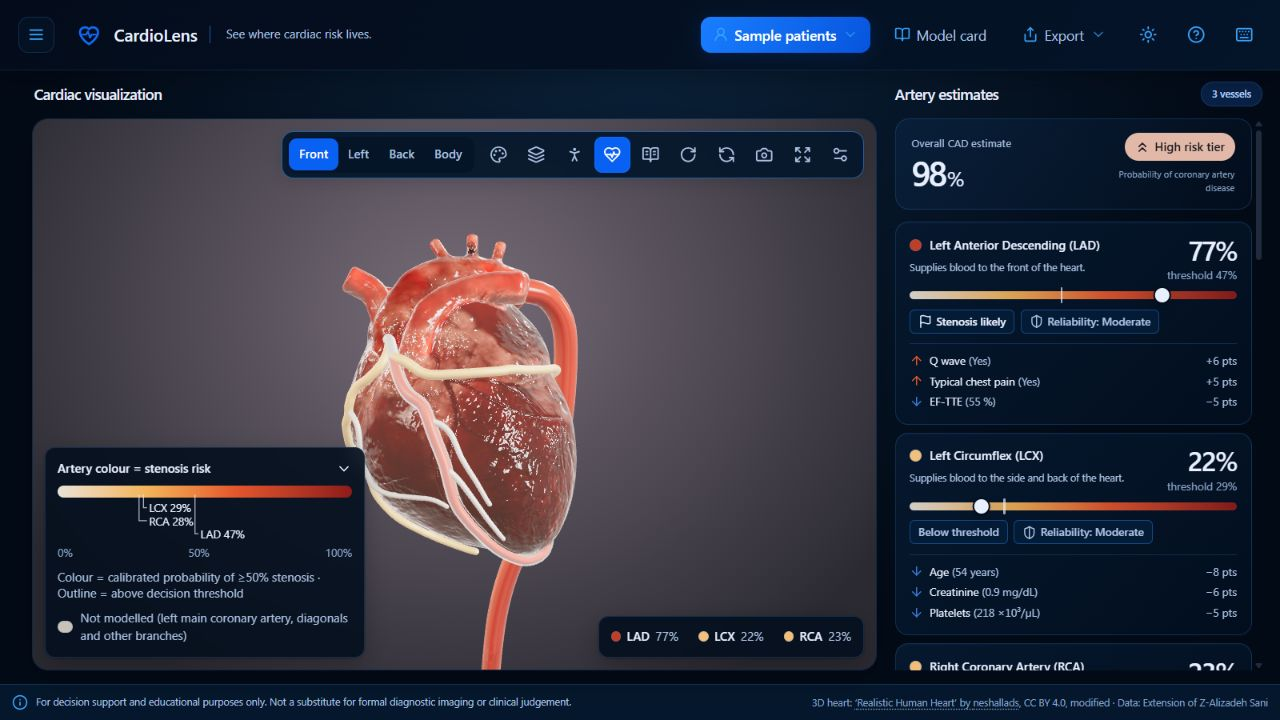
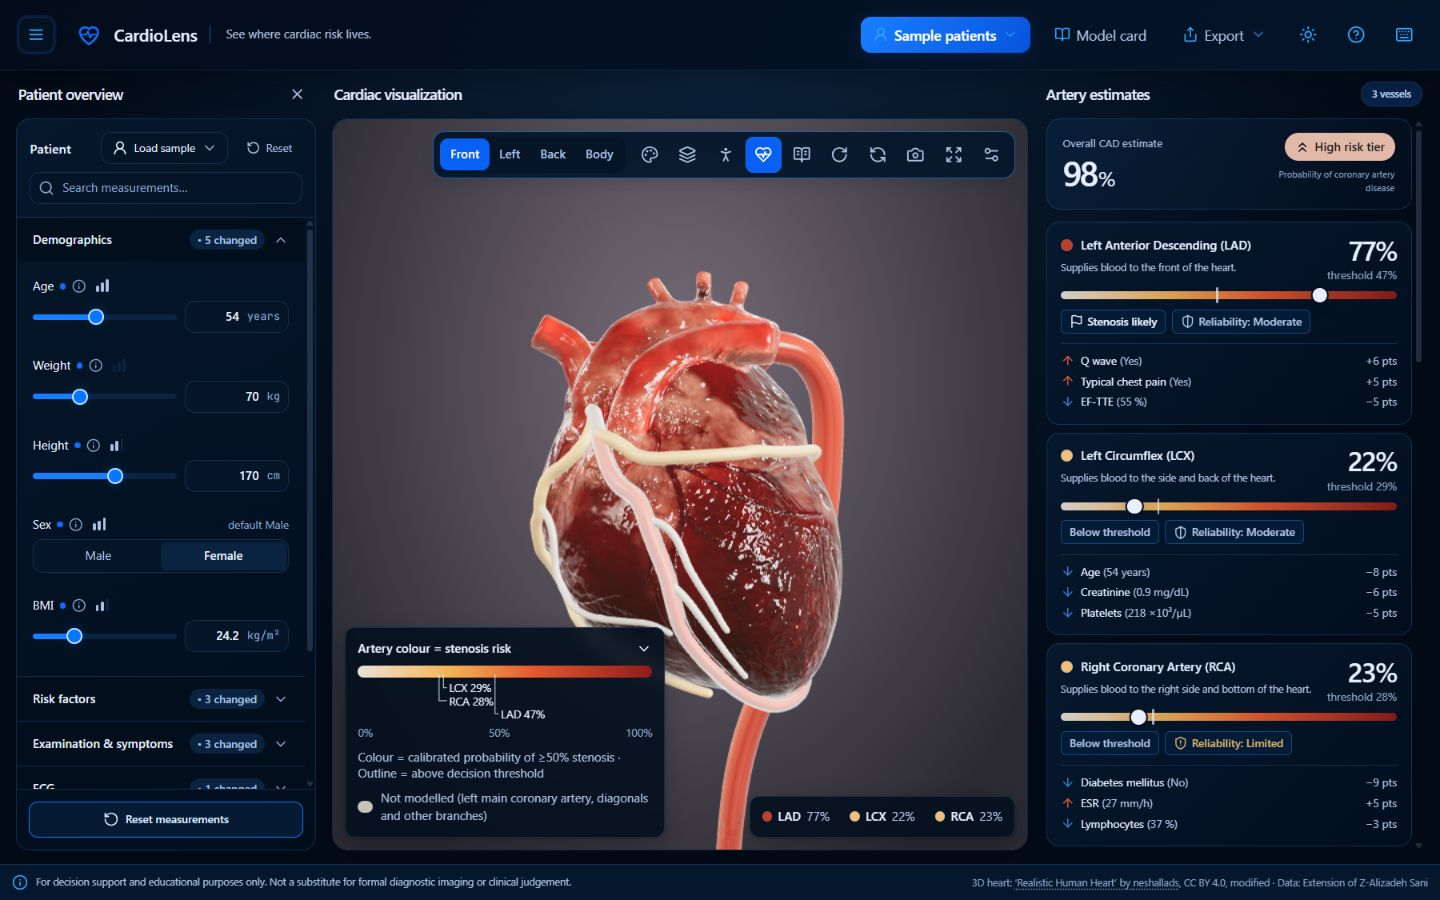
Show patient sidebar in README dashboard screenshot

diff --git a/README.md b/README.md
@@ -8,7 +8,7 @@ interactive 3D heart**, with the reasons why and what-if exploration. Decision s
 **Live website:** [havoc · CardioLens](https://havoc-rho.vercel.app/) ·
 [Open the LAD sample](https://havoc-rho.vercel.app/?case=lad)
 
-![Current CardioLens dashboard: dark theme, unchanged 3D heart and artery estimates](docs/images/cardiolens-dark-dashboard.png)
+![Current CardioLens dashboard: open patient sidebar, dark theme, unchanged 3D heart and artery estimates](docs/images/cardiolens-dark-dashboard.png)
 
 The current interface includes dark and light themes, a smoothly expanding patient sidebar,
 a resizable cardiac viewer, and a two-second opening animation that plays once per browser-tab session.
